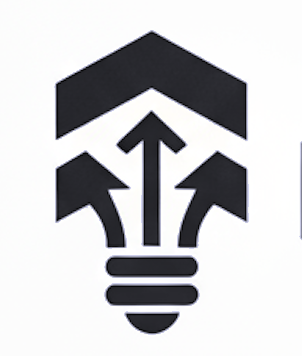
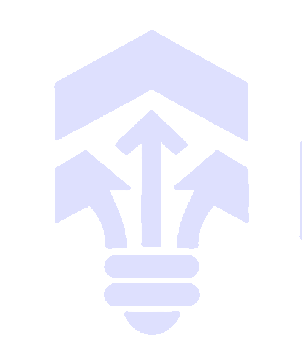
update

Changed region(s): [[0.1788, 0.309, 0.8344, 0.9579], [0.1788, 0.0618, 0.8344, 0.4017], [0.9834, 0.4017, 1.0, 0.6798]]

diff --git a/src/app/page.tsx b/src/app/page.tsx
@@ -8,6 +8,7 @@ import SubmitIdeaForm from "@/components/SubmitIdeaForm";
 import AnalyticsOverview from "@/components/AnalyticsOverview";
 import type { Status } from "@/lib/db";
 import { pickMostTrendingIdea } from "@/lib/trending";
+import logo from "@/app/logos/nu_logo_name.png";
 
 export const dynamic = "force-dynamic";
 
@@ -78,6 +79,72 @@ export default async function HomePage() {
 
   return (
     <>
+      {/* Intro hero */}
+      <section className="mb-10">
+        <div className="hero-intro">
+          <div className="relative z-10 grid gap-8 md:grid-cols-12 md:items-center">
+            <div className="md:col-span-7 text-center md:text-left">
+              <div className="mb-4 flex justify-center md:justify-start">
+                <div
+                  aria-label="NextUp"
+                  className="logo-mask"
+                  style={{
+                    WebkitMaskImage: `url(${logo.src})`,
+                    maskImage: `url(${logo.src})`,
+                    width: "132px",
+                    height: "56px",
+                  }}
+                />
+              </div>
+
+              <p className="text-[11px] font-semibold uppercase tracking-wider text-muted">NextUp</p>
+              <h1 className="text-3xl font-bold leading-tight md:text-4xl">Vote for What Gets Built</h1>
+              <p className="mt-2 text-sm text-muted md:text-base">
+                Pitch software ideas, vote on the best ones, and the community decides what we build next.
+              </p>
+
+              <div className="mt-6 flex flex-wrap justify-center gap-2 md:justify-start">
+              {!session?.user?.id ? (
+                <>
+                  <Link href="/login" className="btn-primary !px-4 !py-2.5 text-sm">
+                    Sign in to submit
+                  </Link>
+                  <Link href="#ideas" className="btn-secondary !px-4 !py-2.5 text-sm">
+                    Browse ideas
+                  </Link>
+                </>
+              ) : (
+                <>
+                  <Link href="#submit" className="btn-primary !px-4 !py-2.5 text-sm">
+                    Submit an idea
+                  </Link>
+                  <Link href="#ideas" className="btn-secondary !px-4 !py-2.5 text-sm">
+                    Browse ideas
+                  </Link>
+                </>
+              )}
+              </div>
+            </div>
+
+            <div className="hidden md:block md:col-span-5">
+              <div aria-hidden="true" className="hero-preview">
+                <div className="hero-preview-topbar" />
+                <div className="hero-preview-title" />
+                <div className="hero-preview-buttons">
+                  <div />
+                  <div />
+                </div>
+                <div className="hero-preview-grid">
+                  <div />
+                  <div />
+                  <div />
+                </div>
+              </div>
+            </div>
+          </div>
+        </div>
+      </section>
+
       <AnalyticsOverview
         topVoteCount={topVoteCount}
         conversionPct={conversionPct}

diff --git a/src/app/globals.css b/src/app/globals.css
@@ -249,4 +249,107 @@
     mask-position: center;
     mask-size: contain;
   }
+
+  /* Hero intro panel (template-inspired look). */
+  .hero-intro {
+    position: relative;
+    overflow: hidden;
+    border-radius: 28px;
+    border: 1px solid var(--color-border);
+    background: rgba(255, 255, 255, 0.55);
+    box-shadow: 0 20px 44px rgba(0, 0, 0, 0.08);
+    padding: 28px 18px;
+  }
+
+  .hero-intro::before {
+    content: "";
+    position: absolute;
+    inset: -2px;
+    background:
+      radial-gradient(700px 260px at 12% 18%, rgba(222, 224, 254, 0.55), transparent 60%),
+      radial-gradient(520px 220px at 88% 30%, rgba(187, 199, 217, 0.35), transparent 55%),
+      repeating-linear-gradient(
+        to right,
+        rgba(150, 152, 162, 0.18) 0,
+        rgba(150, 152, 162, 0.18) 1px,
+        transparent 1px,
+        transparent 26px
+      );
+    opacity: 0.18;
+    pointer-events: none;
+  }
+
+  .hero-preview {
+    width: 100%;
+    height: 240px;
+    border-radius: 20px;
+    border: 1px solid rgba(150, 152, 162, 0.25);
+    background: rgba(255, 255, 255, 0.42);
+    position: relative;
+    overflow: hidden;
+  }
+
+  .hero-preview::after {
+    content: "";
+    position: absolute;
+    inset: -20px;
+    background:
+      radial-gradient(200px 120px at 25% 25%, rgba(222, 224, 254, 0.6), transparent 60%),
+      radial-gradient(180px 120px at 75% 55%, rgba(187, 199, 217, 0.45), transparent 60%),
+      repeating-linear-gradient(
+        to bottom,
+        rgba(150, 152, 162, 0.18) 0,
+        rgba(150, 152, 162, 0.18) 1px,
+        transparent 1px,
+        transparent 22px
+      );
+    opacity: 0.22;
+    pointer-events: none;
+  }
+
+  .hero-preview-topbar {
+    position: relative;
+    height: 30px;
+    margin: 14px 16px 0 16px;
+    border-radius: 10px;
+    background: rgba(150, 152, 162, 0.12);
+  }
+
+  .hero-preview-title {
+    position: relative;
+    width: 68%;
+    height: 26px;
+    margin: 18px 0 0 16px;
+    border-radius: 12px;
+    background: rgba(222, 224, 254, 0.28);
+  }
+
+  .hero-preview-buttons {
+    position: relative;
+    display: flex;
+    gap: 10px;
+    margin: 14px 0 0 16px;
+  }
+
+  .hero-preview-buttons > div {
+    flex: 1;
+    height: 18px;
+    border-radius: 10px;
+    background: rgba(150, 152, 162, 0.14);
+  }
+
+  .hero-preview-grid {
+    position: relative;
+    display: grid;
+    grid-template-columns: 1fr 1fr 1fr;
+    gap: 10px;
+    padding: 16px;
+  }
+
+  .hero-preview-grid > div {
+    height: 56px;
+    border-radius: 14px;
+    background: rgba(222, 224, 254, 0.18);
+    border: 1px solid rgba(150, 152, 162, 0.2);
+  }
 }
